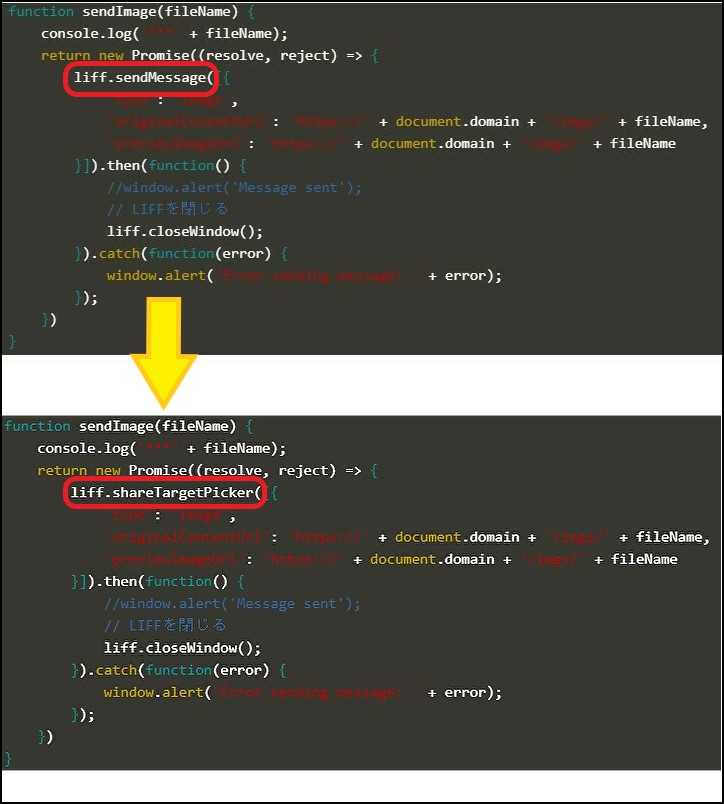
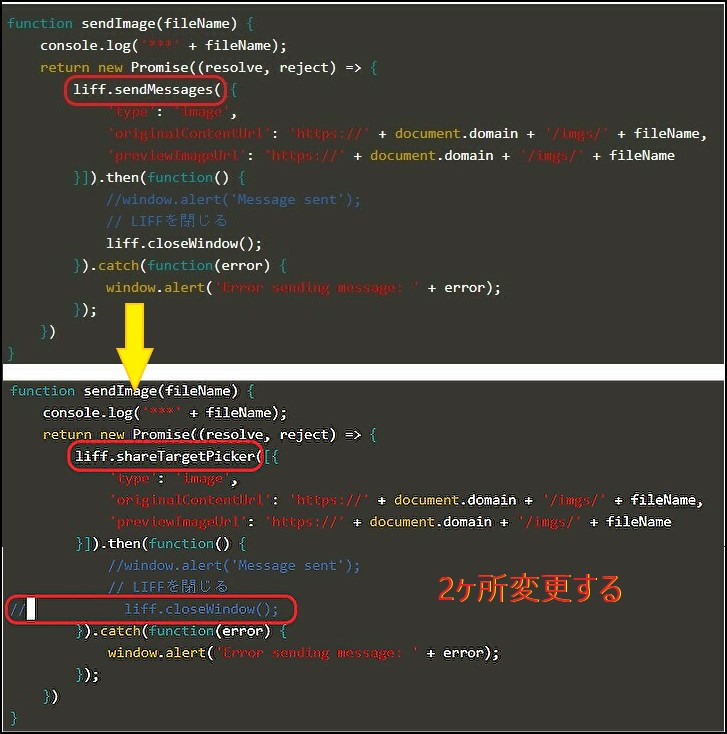
reflect feedback

diff --git a/liff_drawing_scenario/step7.md b/liff_drawing_scenario/step7.md
@@ -7,7 +7,7 @@ Share Target Picker（シェアターゲットピッカー）とは、LIFFから
     vim ./public/oekaki.js
     ```{{copy}}
 
-2. 120行目の`liff.sendMessage`を`liff.shareTargetPicker`に変更して、保存します
+2. 120行目の`liff.sendMessage`を`liff.shareTargetPicker`に変更、127行目の`liff.closeWindow();`をコメントアウトして、保存します
     ```shell
     vim ./public/oekaki.js
     ```{{copy}}
@@ -32,9 +32,9 @@ Share Target Picker（シェアターゲットピッカー）とは、LIFFから
 
 4. 確認してみましょう
 
-5. 【補足】LIFF v2にliff.isApiAvailable()が追加されました
+5. 【補足】LIFF v2にliff.isApiAvailable()が追加されました<br>
 <a href="https://l.facebook.com/l.php?u=https%3A%2F%2Fdevelopers.line.biz%2Fja%2Fdocs%2Fliff%2Frelease-notes%2F%3Ffbclid%3DIwAR0ExUGFrsonRNmvpOgJfuHh_ssbjhrAHBibupkdIc3t7boiTezM0H8ekPw%23liff-v2%25E3%2581%25ABliff-isapiavailable-%25E3%2581%258C%25E8%25BF%25BD%25E5%258A%25A0%25E3%2581%2595%25E3%2582%258C%25E3%2581%25BE%25E3%2581%2597%25E3%2581%259F&h=AT2dc1lOEzw5KhWggFVL3r7BrvUwGB6pAMydqKhikkMRA8wkAu-70-I0EO7GIHvo_GyR1QcX-L4SqfNihcRv9fg3hJpUaiEgvccpS9hMinPb7hva35G3nzeGjf1hi5HkPLQ" target="_blank">リリースノート</a><br>
-以下のように `liff.isApiAvailable('shareTargetPicker')` を事前に実行することで、`liff.shareTargetPicker()`のエラーを回避することができます。
+以下のように `liff.isApiAvailable('shareTargetPicker')` を事前に実行することで、`liff.shareTargetPicker()`のエラーを回避することができます。<br>
 ![api](https://raw.githubusercontent.com/MasatakaMiki/katacoda-scenarios/master/liff_drawing_scenario/img/s0702_api.jpg)
 
 以上で、今回のハンズオンはすべて終了です。<br>

diff --git a/liff_drawing_scenario/step5.md b/liff_drawing_scenario/step5.md
@@ -24,7 +24,19 @@ LINEアプリから新しいチャネルを作成し、メニューからLIFFを
 5. リッチメニューを作ります。リッチメニューは、`LINE Official Account Manager` で作成しますので、リンクをクリックします。
 ![oam](https://raw.githubusercontent.com/MasatakaMiki/katacoda-scenarios/master/liff_drawing_scenario/img/s0506_oam.jpg)
 
+6. `ホーム` - `リッチメニュー`をクリックし、作成ボタンをクリックします
+![create_richmenu](https://raw.githubusercontent.com/MasatakaMiki/katacoda-scenarios/master/liff_drawing_scenario/img/s0507_create_richmenu.jpg)
 
+7. LIFFのタイトルと表示期間を入力します<br>
+<table><tr><th>項目</th><th>値</th></tr>
+<tr><td>①タイトル</td><td>LIFF-MENU</td></tr>
+<tr><td>②表示期間</td><td>2020/04/17 00:00 - 2029/12/31 23:59</td></tr>
+</table>
+![richmenu_setting](https://raw.githubusercontent.com/MasatakaMiki/katacoda-scenarios/master/liff_drawing_scenario/img/s0508_richmenu_setting.jpg)
+
+8. `テンプレートを選択`をクリックし、左下のテンプレートを選択して、選択ボタンをクリックします
+![richmenu_setting](https://raw.githubusercontent.com/MasatakaMiki/katacoda-scenarios/master/liff_drawing_scenario/img/s0509_richmenu_setting.jpg)
+![richmenu_setting](https://raw.githubusercontent.com/MasatakaMiki/katacoda-scenarios/master/liff_drawing_scenario/img/s0510_richmenu_setting.jpg)
 
 
 次のステップからは、このアプリをお絵描きアプリに改造してみましょう。

diff --git a/liff_drawing_scenario/step2.md b/liff_drawing_scenario/step2.md
@@ -9,15 +9,15 @@
 無料で5つまで作成でき、クレジットカード登録したら作成枠が増えます。
 アプリの名前は一意になるようにしてください。英小文字、数字、-(ハイフン)のみ使用可能です。
     ```shell
-    heroku create ldgq-handson-20200417-name
+    heroku create ldgq-20200417-name
     ```{{copy}}
 作成されたらURLが出力されていると思います。
 LIFFの作成時に必要となるので、控えておいてください。
-    `https://ldgq-handson-20200417-name.herokuapp.com`
+    `https://ldgq-20200417-name.herokuapp.com`
 
 3. 前のステップで準備したアプリ（リポジトリ）とherokuのアプリを紐づけます
     ```shell
-    heroku git:remote -a ldgq-handson-20200417-name
+    heroku git:remote -a ldgq-20200417-name
     ```{{copy}}
 
 次のステップでは、LIFFを作っていきますよ！

diff --git a/liff_drawing_scenario/step3.md b/liff_drawing_scenario/step3.md
@@ -28,7 +28,7 @@
 <table><tr><th>項目</th><th>値</th></tr>
 <tr><td>①LIFFアプリ名</td><td>LIFF-drawing</td></tr>
 <tr><td>②サイズ</td><td>Tall</td></tr>
-<tr><td>③エンドポイント</td><td>https://ldgq-handson-20200417-name.herokuapp.com</td></tr>
+<tr><td>③エンドポイント</td><td>https://ldgq-20200417-name.herokuapp.com</td></tr>
 <tr><td>④Scope</td><td>チェックを<font color="red">3つ</font>に入れる</td></tr>
 <tr><td>⑤ボットリンク機能</td><td>On(Normal)</td></tr>
 </table>
